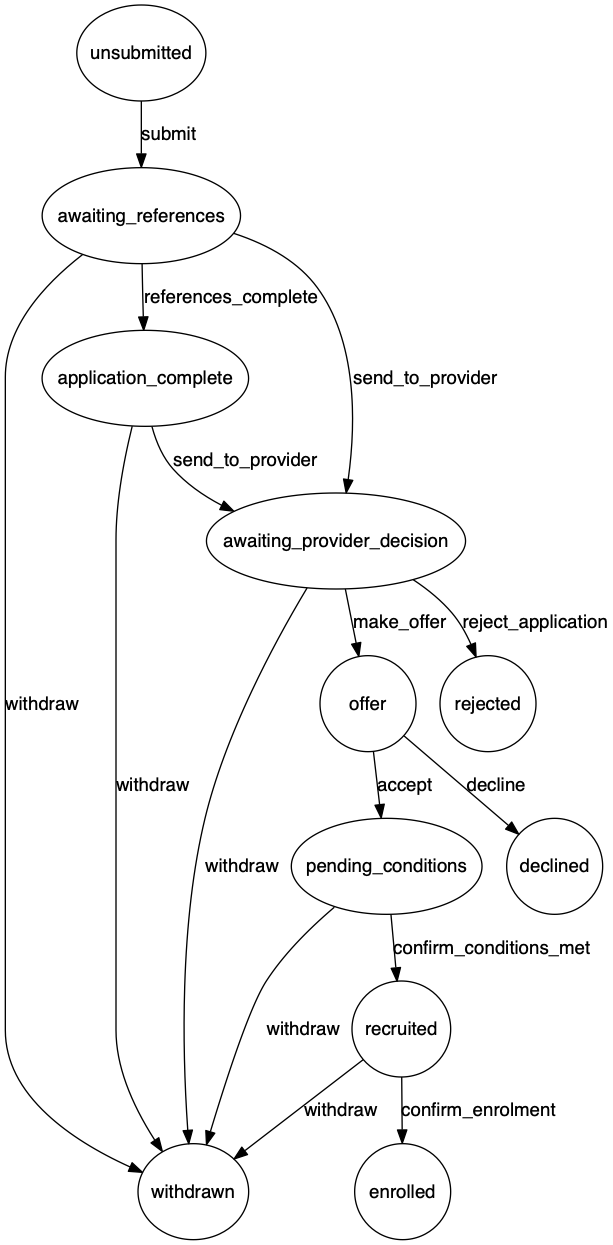
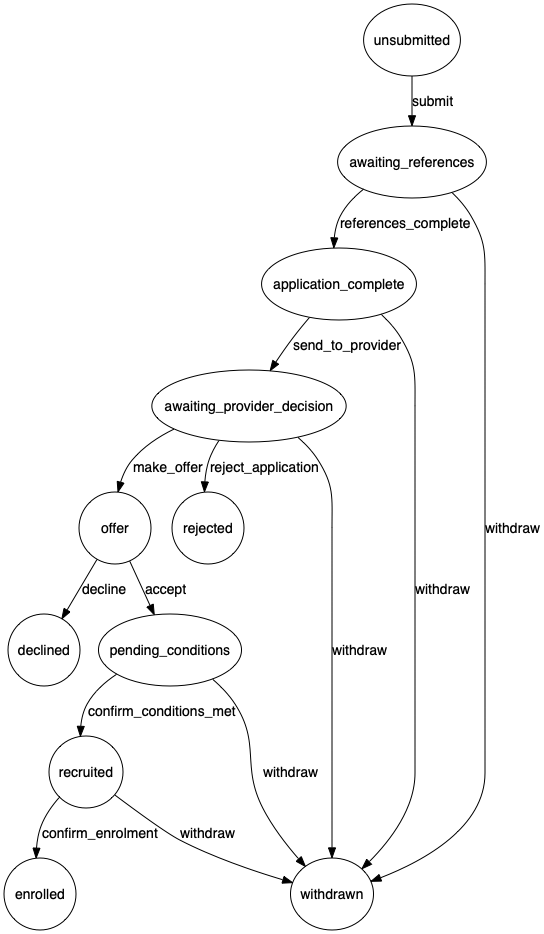
Only let ReceiveReference make one kind of state change
When this object can make two kinds of state transitions, the ceremony
around each transition gets lost. In this case there is a Slack
notification which happens before a choice gets `send_to_provider!`
in SendApplicationChoiceToProvider, but doesn't happen here.

The cron will pick up this change within the hour and do the transition
properly.

diff --git a/spec/services/receive_reference_spec.rb b/spec/services/receive_reference_spec.rb
@@ -37,23 +37,6 @@ RSpec.describe ReceiveReference do
     expect(application_form.application_choices).to all(be_application_complete)
   end
 
-  it 'progresses the application choices to the "awaiting provider decision" status once all references have been received if edit_by date is in past' do
-    application_form = FactoryBot.create(:completed_application_form, references_count: 0)
-    application_form.application_choices.each { |choice| choice.update(status: 'awaiting_references', edit_by: 1.day.ago) }
-    application_form.references << build(:reference, :unsubmitted, email_address: 'ab@c.com')
-    application_form.references << build(:reference, :complete)
-
-    action = ReceiveReference.new(
-      application_form: application_form,
-      referee_email: 'ab@c.com',
-      feedback: 'A reference',
-    )
-    action.save
-
-    expect(application_form).to be_references_complete
-    expect(application_form.application_choices).to all(be_awaiting_provider_decision)
-  end
-
   it 'does not progress the application choices to the "application complete" status without minimum number of references' do
     application_form = FactoryBot.create(:completed_application_form, references_count: 0)
     application_form.application_choices.each { |choice| choice.update(status: 'awaiting_references') }

diff --git a/app/services/receive_reference.rb b/app/services/receive_reference.rb
@@ -24,11 +24,7 @@ class ReceiveReference
 
       if @application_form.references_complete?
         @application_form.application_choices.each do |application_choice|
-          if application_choice.edit_by_expired?
-            ApplicationStateChange.new(application_choice).send_to_provider!
-          else
-            ApplicationStateChange.new(application_choice).references_complete!
-          end
+          ApplicationStateChange.new(application_choice).references_complete!
         end
       end
     end

diff --git a/app/services/application_state_change.rb b/app/services/application_state_change.rb
@@ -19,7 +19,6 @@ class ApplicationStateChange
 
     state :awaiting_references do
       event :references_complete, transitions_to: :application_complete
-      event :send_to_provider, transitions_to: :awaiting_provider_decision
       event :withdraw, transitions_to: :withdrawn
     end
 
